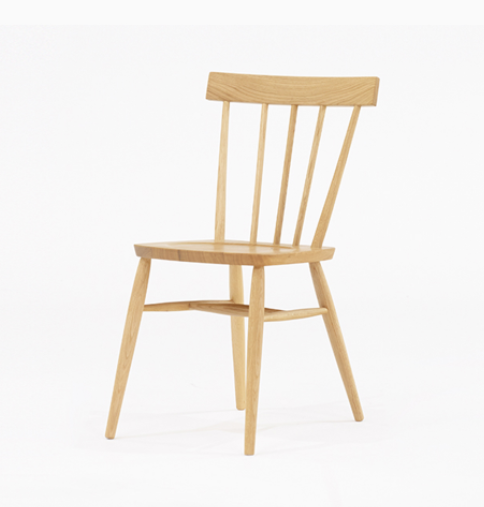
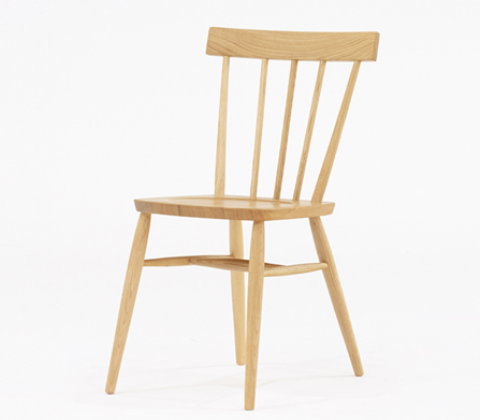
top-pageのstyle変更(zoom, size)

Changed region(s): [[0.2188, 0.2476, 0.7812, 0.9905], [0.4062, 0.0619, 0.8125, 0.4024]]

diff --git a/assets/css/style.css b/assets/css/style.css
@@ -155,12 +155,34 @@ section {
   font-size: 2.5rem;
 }
 
+.feature-1 .cursor img:hover{
+  width: 90%;
+  height: auto;
+}
+
 .feature-1 h3 {
   font-size: 20px;
 }
 
 .feature-1 p {
   color: #b1b1b1;
+}
+
+.feature-2 img{
+  display: inline-block;
+  width: 100%;
+  height: auto;
+  transition: .3s ease-in-out;
+
+}
+
+.feature-2 img:hover{
+  /* transform: scale(1.3); */
+  transform: scale(1.1, 1.1);
+  -webkit-transform: scale(1.1, 1.1);
+  -moz-transform: scale(1.1, 1.1);
+  -o-transform: scale(1.1, 1.1);
+  -ms-transform: scale(1.1, 1.1);
 }
 
 /* Step */

diff --git a/views/index.php b/views/index.php
@@ -1,8 +1,10 @@
 <?php
   //number of items in cart
   $cart_num = 0;
-  $num_format = 10101;
+  $num_format = 10101;\
 
+  session_start();
+  
 ?>
 
 
@@ -70,7 +72,18 @@
 
             <ul class="site-menu main-menu js-clone-nav mr-auto d-none d-lg-block">
               <li class="active"><a href="index.php" class="nav-link">Home</a></li>
-              <li><a href="login.php" class="nav-link">login</a></li>
+              <li>
+              <?php
+                if(isset($_POST['username'])){
+                  ?><a href="index.php" class="nav-link" onclick="<?php
+                  unset($_SESSION['username']);
+                  ?>">logout</a><?php 
+                }else{
+              ?>
+                <a href="login.php" class="nav-link">login</a>
+              <?php
+                } ?>
+              </li>
               <li><a href="cart.php" class="nav-link">cart <?php if($cart_num > 0){ echo '&#'. ($num_format + $cart_num); }; ?></a></li>
 
             </ul>
@@ -127,36 +140,33 @@
 
         <div class="row justify-content-center text-center mb-5">
           <div class="col-md-5" data-aos="fade-up">
-            <h2 class="section-heading">Save your time to using SoftLand</h2>
+            <h2 class="section-heading">カテゴリで選ぶ</h2>
           </div>
         </div>
 
         <div class="row">
           <div class="col-md-4" data-aos="fade-up" data-aos-delay="">
             <div class="feature-1 text-center">
-              <div class="wrap-icon icon-1">
-                <span class="icon la la-users"></span>
+              <div class="cursor">
+                <img src="../assets/img/room3-chair.png" alt="Image" width="300px" hight="100%">
               </div>
-              <h3 class="mb-3">Explore Your Team</h3>
-              <p>Lorem ipsum dolor sit amet, consectetur adipisicing elit. Rem, optio.</p>
+              <h3 class="mb-3">椅子・チェアー</h3>
             </div>
           </div>
           <div class="col-md-4" data-aos="fade-up" data-aos-delay="100">
             <div class="feature-1 text-center">
-              <div class="wrap-icon icon-1">
-                <span class="icon la la-toggle-off"></span>
+            <div class="cursor">
+                <img src="../assets/img/room3-desk.png" alt="Image" width="300px" hight="100%">
               </div>
-              <h3 class="mb-3">Digital Whiteboard</h3>
-              <p>Lorem ipsum dolor sit amet, consectetur adipisicing elit. Rem, optio.</p>
+              <h3 class="mb-3">机</h3>
             </div>
           </div>
           <div class="col-md-4" data-aos="fade-up" data-aos-delay="200">
             <div class="feature-1 text-center">
-              <div class="wrap-icon icon-1">
-                <span class="icon la la-umbrella"></span>
+              <div class="cursor">
+                <img src="../assets/img/room3-bed.png" alt="Image" width="300px" hight="100%">
               </div>
-              <h3 class="mb-3">Design To Development</h3>
-              <p>Lorem ipsum dolor sit amet, consectetur adipisicing elit. Rem, optio.</p>
+              <h3 class="mb-3">ベッド</h3>
             </div>
           </div>
         </div>
@@ -211,7 +221,7 @@
             そこで在宅ワークのスペースをつくりつつ休憩時間や終業後の家事などを無理なく両立しやすいコーディネートをご紹介します。</p>
             
           </div>
-          <div class="col-md-6" data-aos="fade-left">
+          <div class="col-md-6 feature-2" data-aos="fade-left">
             <img src="../assets/img/room1.jpg" alt="Image" class="img-fluid">
           </div>
         </div>
@@ -220,7 +230,7 @@
 
     <section class="section">
       <div class="container">
-        <div class="row align-items-center">
+        <div class="row align-items-center feature-2">
           <div class="col-md-5 ml-auto order-2">
             <h2 class="mb-4">一人暮らしを満喫する1LDK北欧スタイルコーディネート</h2>
             <p class="mb-4">1人暮らしの方にも人気の高い1LDKの北欧スタイルコーディネートです。
@@ -237,7 +247,7 @@
 
     <section class="section">
       <div class="container">
-        <div class="row align-items-center">
+        <div class="row align-items-center feature-2">
           <div class="col-md-5 mr-auto">
             <h2 class="mb-4">個人のスペースも大切にした2人の寝室コーディネート</h2>
             <p class="mb-4">夫婦やカップルの方におすすめの、個人のスペースも大切にした寝室コーディネートです。
@@ -256,17 +266,17 @@
 
     <section class="section">
       <div class="container">
-        <div class="row align-items-center">
+        <div class="row align-items-center feature-2">
           <div class="col-md-5 ml-auto order-2">
-            <h2 class="mb-4">個人のスペースも大切にした2人の寝室コーディネート</h2>
-            <p class="mb-4">夫婦やカップルの方におすすめの、個人のスペースも大切にした寝室コーディネートです。
-            2人一緒に眠る寝室でも、空いたスペースにそれぞれが使いやすい家具や家電をレイアウトすることで、
-            ゆるやかに個人スペースを確保することができます。6畳ほどのスペースがあれば、
-            ダブルサイズのベッドを置いてもベッドの両サイドにデスク1台分ずつの空間が残ります。
-            その空いたスペースにお互いが過ごしやすいアイテムを置くことで、ベッドが間仕切りとなったレイアウトです。</p>
+            <h2 class="mb-4">ダイニング兼リビングで省スペースが叶うモダンなラウンジスタイル</h2>
+            <p class="mb-4">リビングとダイニングをひとつにまとめたラウンジスタイルは、
+              2つのスペースが集約されるのでレイアウトする家具が少なくなります。
+              そのため、同じ空間でもゆとりが生まれるのでお部屋を広く見せることができたり、
+              空いたスペースを別の用途としてレイアウトすることができるようになります。
+              省スペースでくつろぎの空間をコーディネートすることができるので、限られたスペースにもおすすめです。</p>
           </div>
           <div class="col-md-6" data-aos="fade-right">
-            <img src="../assets/img/room3.jpg" alt="Image" class="img-fluid">
+            <img src="../assets/img/room4.jpg" alt="Image" class="img-fluid">
           </div>
         </div>
       </div>
